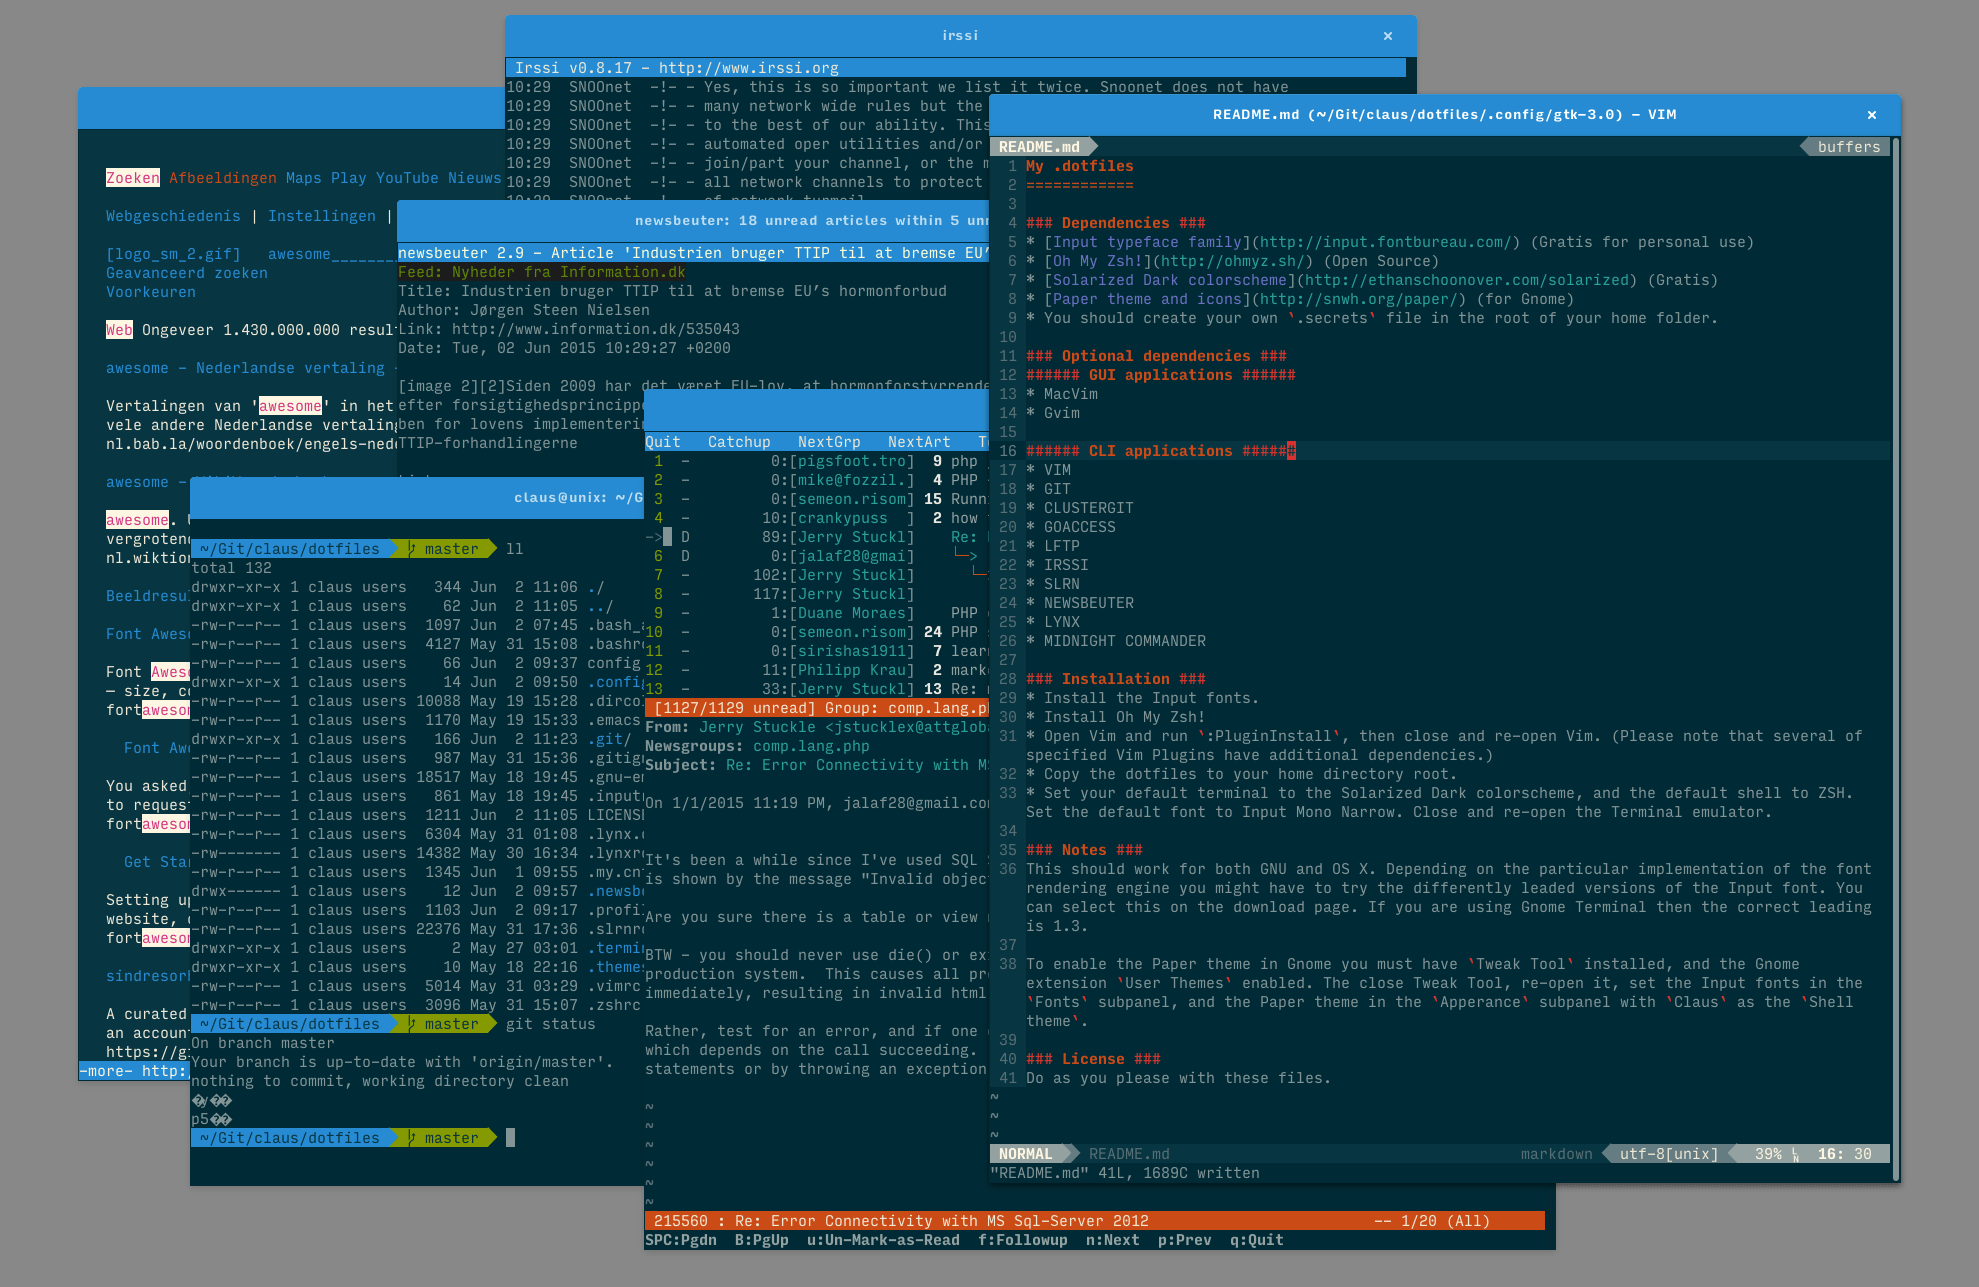
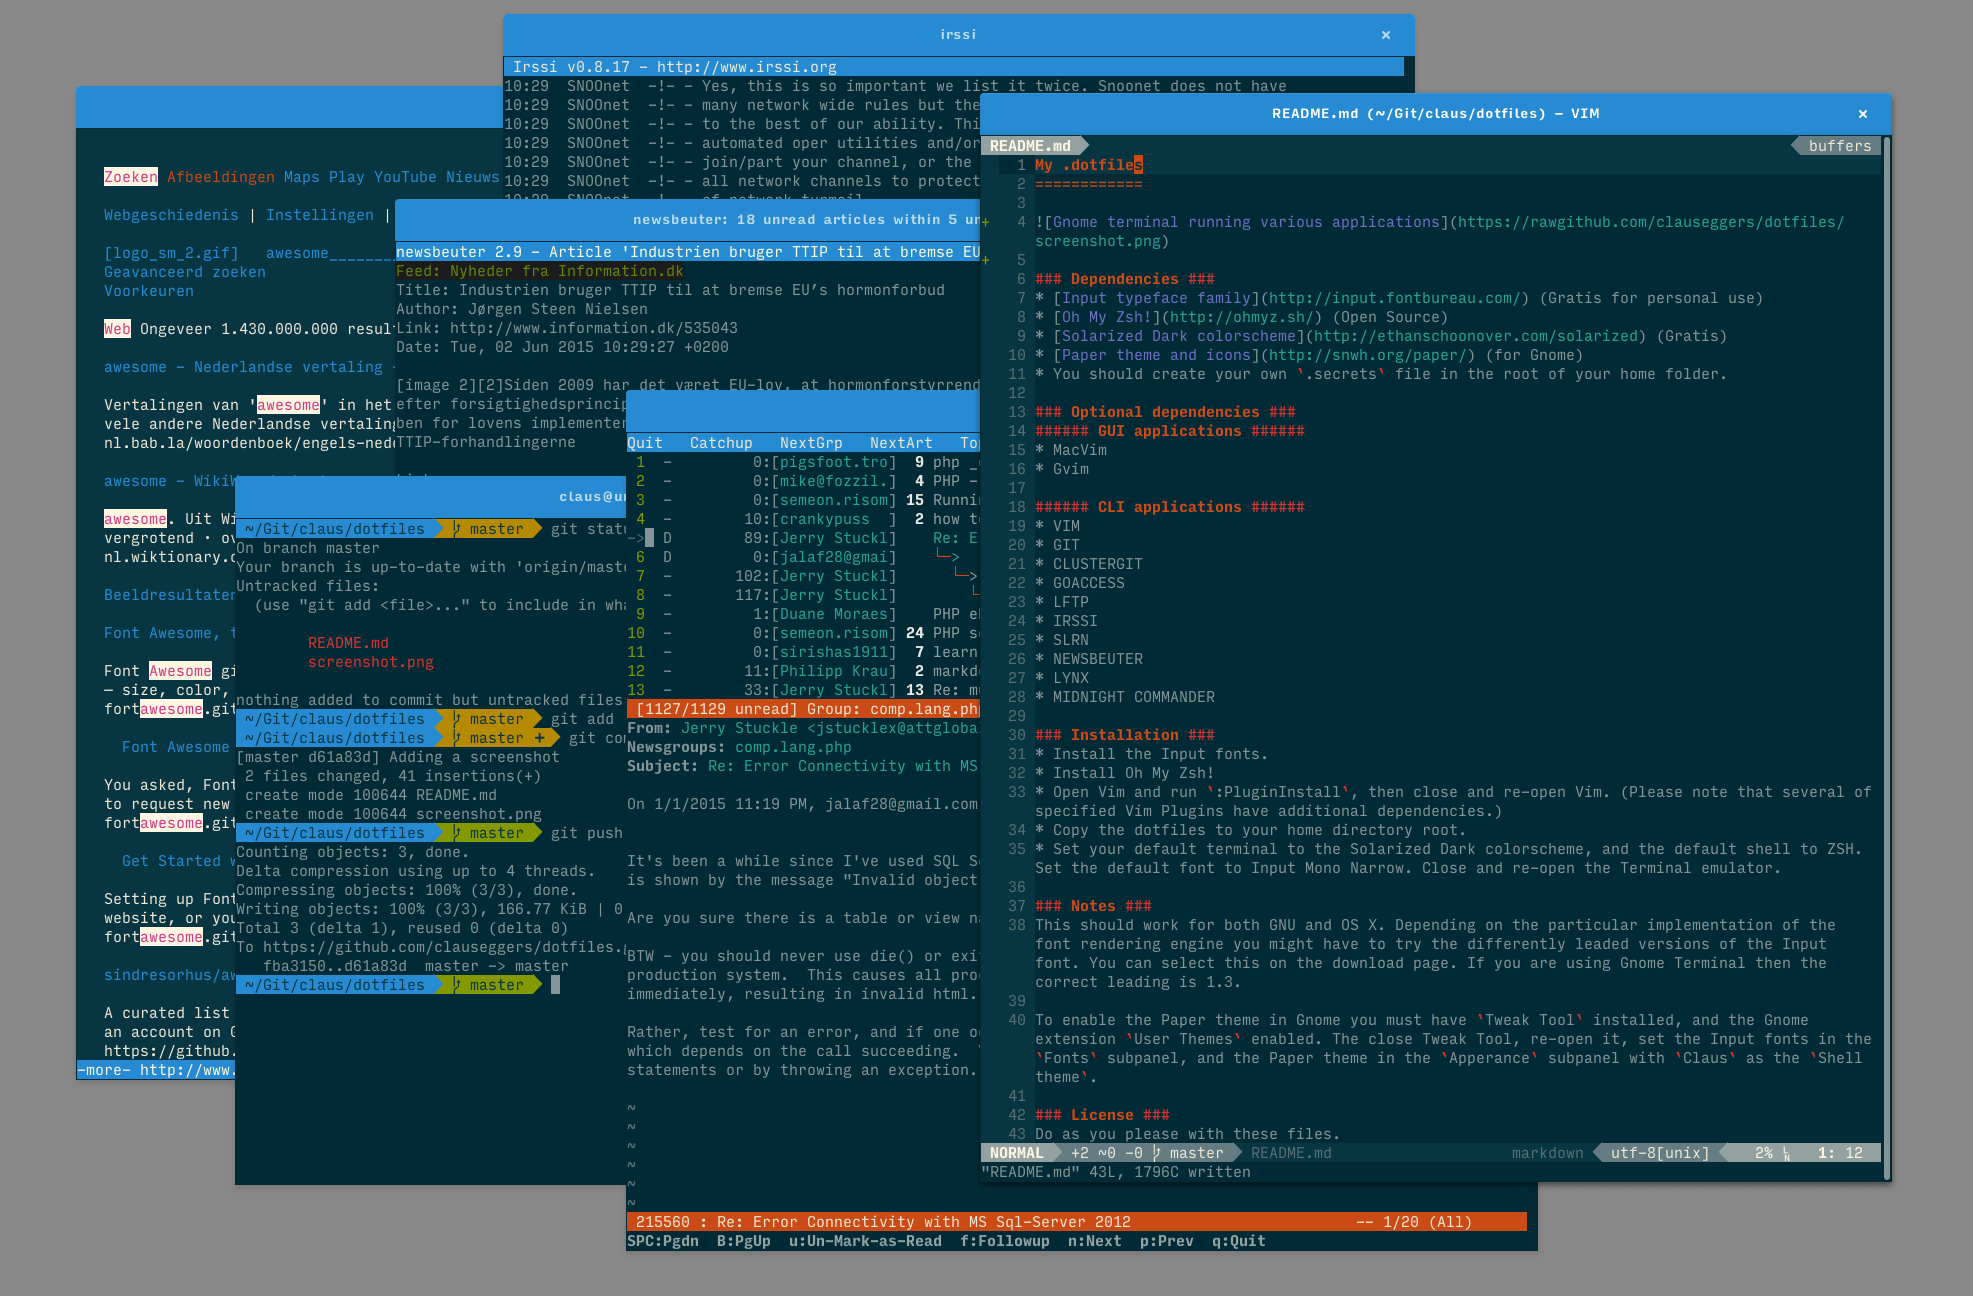
Fixing screenshot

Changed region(s): [[0.0309, 0.0, 0.9584, 0.9946], [0.8966, 0.0932, 0.9584, 0.1243]]

diff --git a/README.md b/README.md
@@ -1,6 +1,8 @@
 My .dotfiles
 ============
 
+![Gnome terminal running various applications](https://rawgithub.com/clauseggers/dotfiles/screenshot.png)
+
 ### Dependencies ###
 * [Input typeface family](http://input.fontbureau.com/) (Gratis for personal use)
 * [Oh My Zsh!](http://ohmyz.sh/) (Open Source)
